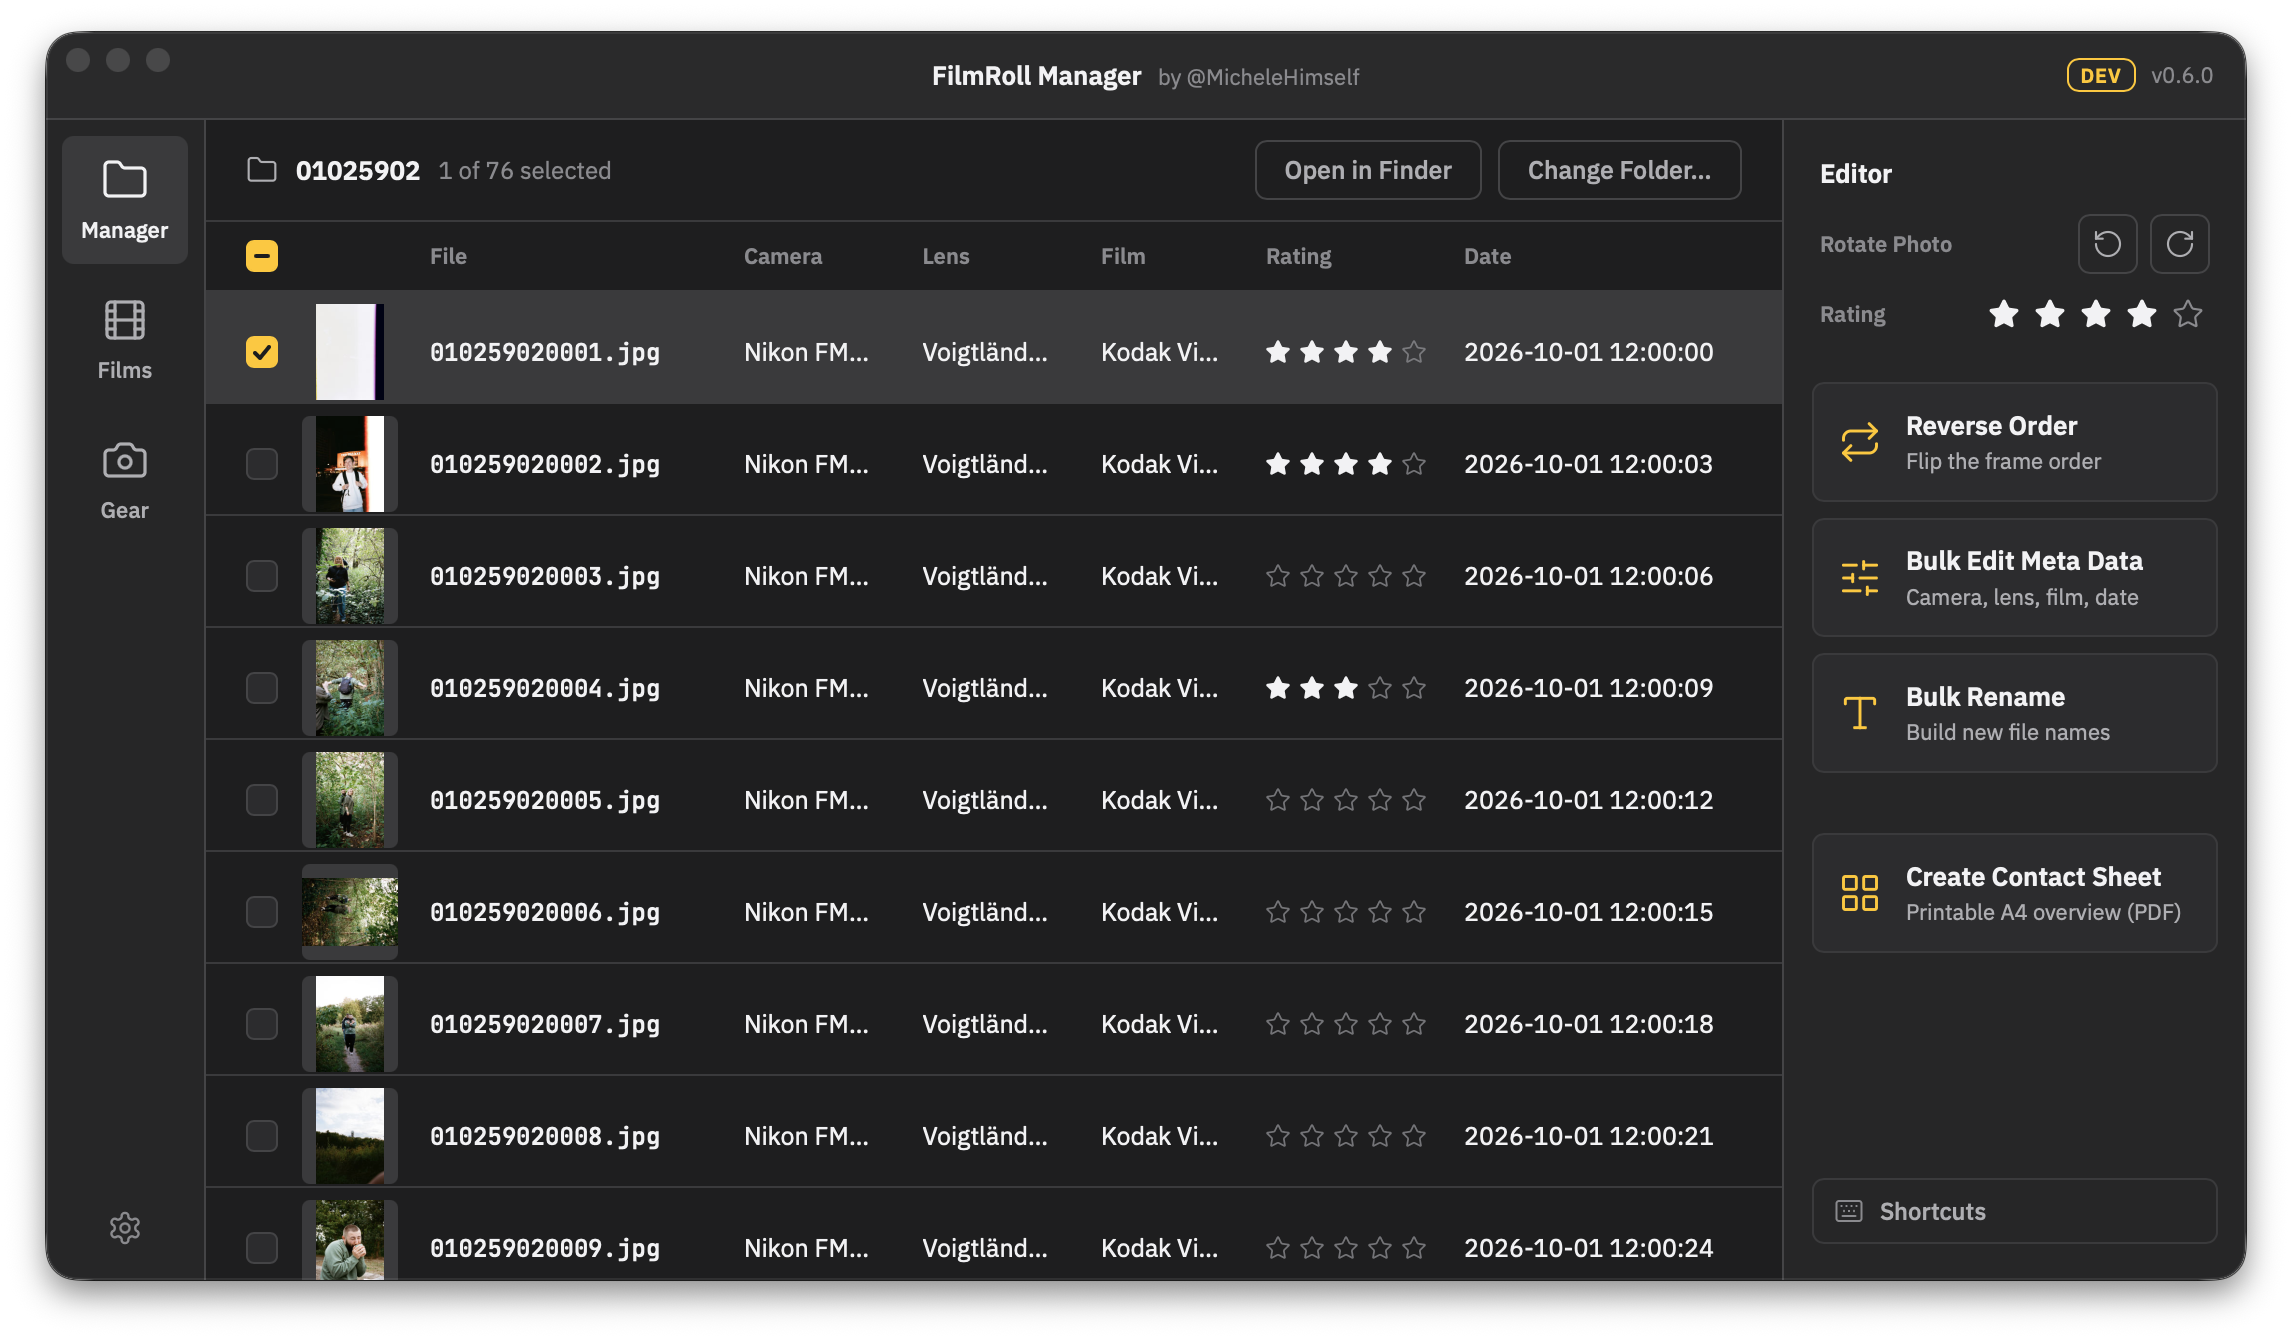
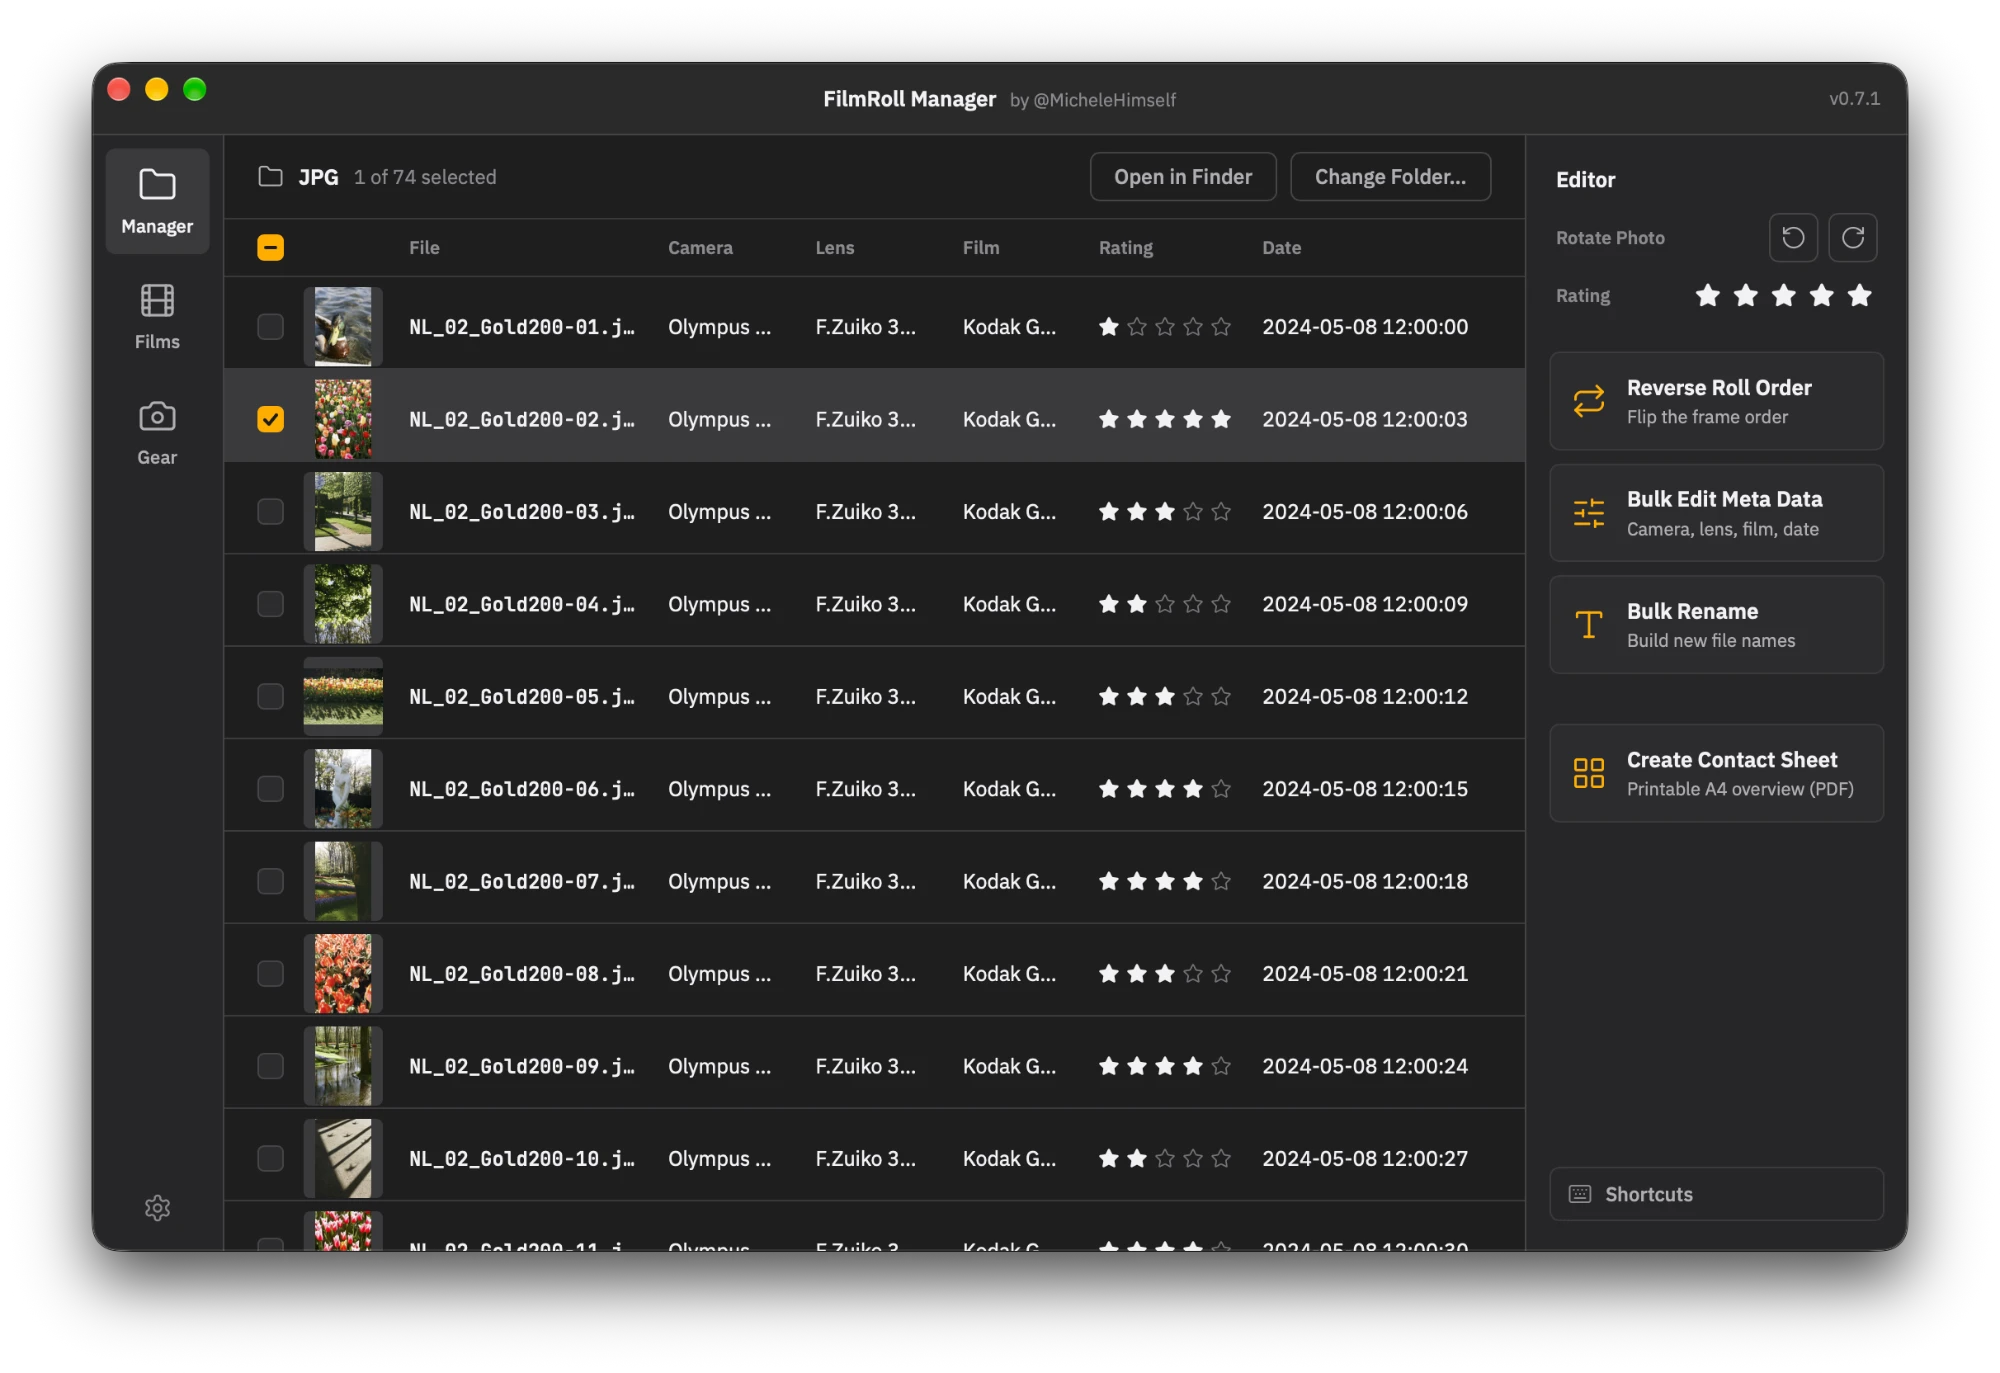
Use new hero screenshot and serve screenshots as WebP
Hero screenshot replaced with v0.7.1 and all three app screenshots are
delivered as WebP (about 80 percent smaller) with PNG fallback.

diff --git a/index.html b/index.html
@@ -49,7 +49,10 @@
         <a class="btn white" href="#how">How it works</a>
       </div>
       <p class="hero-note">Currently available for macOS.</p>
-      <div class="shot"><img src="assets/app-manager.png" width="2292" height="1340" alt="The FilmRoll Manager window showing a list of scanned frames with camera, lens, film, rating and date"></div>
+      <div class="shot"><picture>
+          <source srcset="assets/app-manager.webp" type="image/webp">
+          <img src="assets/app-manager.png" width="2000" height="1373" alt="The FilmRoll Manager window showing a list of scanned frames with camera, lens, film, rating and date">
+        </picture></div>
     </section>
 
     <section class="wrap section" id="features">
@@ -104,12 +107,12 @@
         <article class="dcard fav">
           <h3>Your film stocks</h3>
           <p>Stop retyping the same films. Pick your favorites from a long list of current film stocks and they show up right in the metadata editor.</p>
-          <div class="pic"><img src="assets/app-films.png" width="2024" height="1664" alt="The Films page of FilmRoll Manager with a list of film stocks and favorites"></div>
+          <div class="pic"><picture><source srcset="assets/app-films.webp" type="image/webp"><img src="assets/app-films.png" width="2024" height="1664" alt="The Films page of FilmRoll Manager with a list of film stocks and favorites"></picture></div>
         </article>
         <article class="dcard fav">
           <h3>Your gear</h3>
           <p>Save your cameras and lenses once and pick them in the metadata editor. FilmRoll Manager embeds both correctly in every file.</p>
-          <div class="pic gear"><img src="assets/app-gear.png" width="2094" height="1532" alt="The Gear page of FilmRoll Manager with saved cameras and lenses"></div>
+          <div class="pic gear"><picture><source srcset="assets/app-gear.webp" type="image/webp"><img src="assets/app-gear.png" width="2094" height="1532" alt="The Gear page of FilmRoll Manager with saved cameras and lenses"></picture></div>
         </article>
       </div>
     </section>

diff --git a/styles.css b/styles.css
@@ -55,7 +55,8 @@ h1, h2, h3 { font-family: var(--serif); font-weight: 500; margin: 0; }
 .hero .lead { font-size: 20px; line-height: 27px; max-width: 528px; margin: 34px auto 0; }
 .hero .cta { display: flex; justify-content: center; gap: 14px; margin-top: 34px; }
 .hero .hero-note { margin-top: 16px; font-size: 14px; line-height: 20px; color: var(--soft); }
-.hero .shot { margin: 84px -2.09% 0; width: 104.18%; }
+.hero .shot { margin: 84px -5.07% 0; width: 110.13%; }
+.hero .shot picture { display: block; }
 .hero .shot img { width: 100%; height: auto; transform-origin: 50% 50%; will-change: transform; }
 
 /* sections */
@@ -87,6 +88,7 @@ h1, h2, h3 { font-family: var(--serif); font-weight: 500; margin: 0; }
 .dcard.fav { padding: 44px 36px 0; height: 476px; }
 .dcard.fav p { margin-top: 20px; max-width: 358px; }
 .dcard.fav .pic { position: absolute; left: -1px; top: 196px; width: 652px; height: 536px; overflow: hidden; pointer-events: none; }
+.dcard.fav .pic picture { display: contents; }
 .dcard.fav .pic img { width: 100%; height: 100%; object-fit: cover; max-width: none; }
 .dcard.fav .pic.gear img { position: absolute; width: 102.27%; height: auto; left: 2.79%; top: 2.64%; }
 
